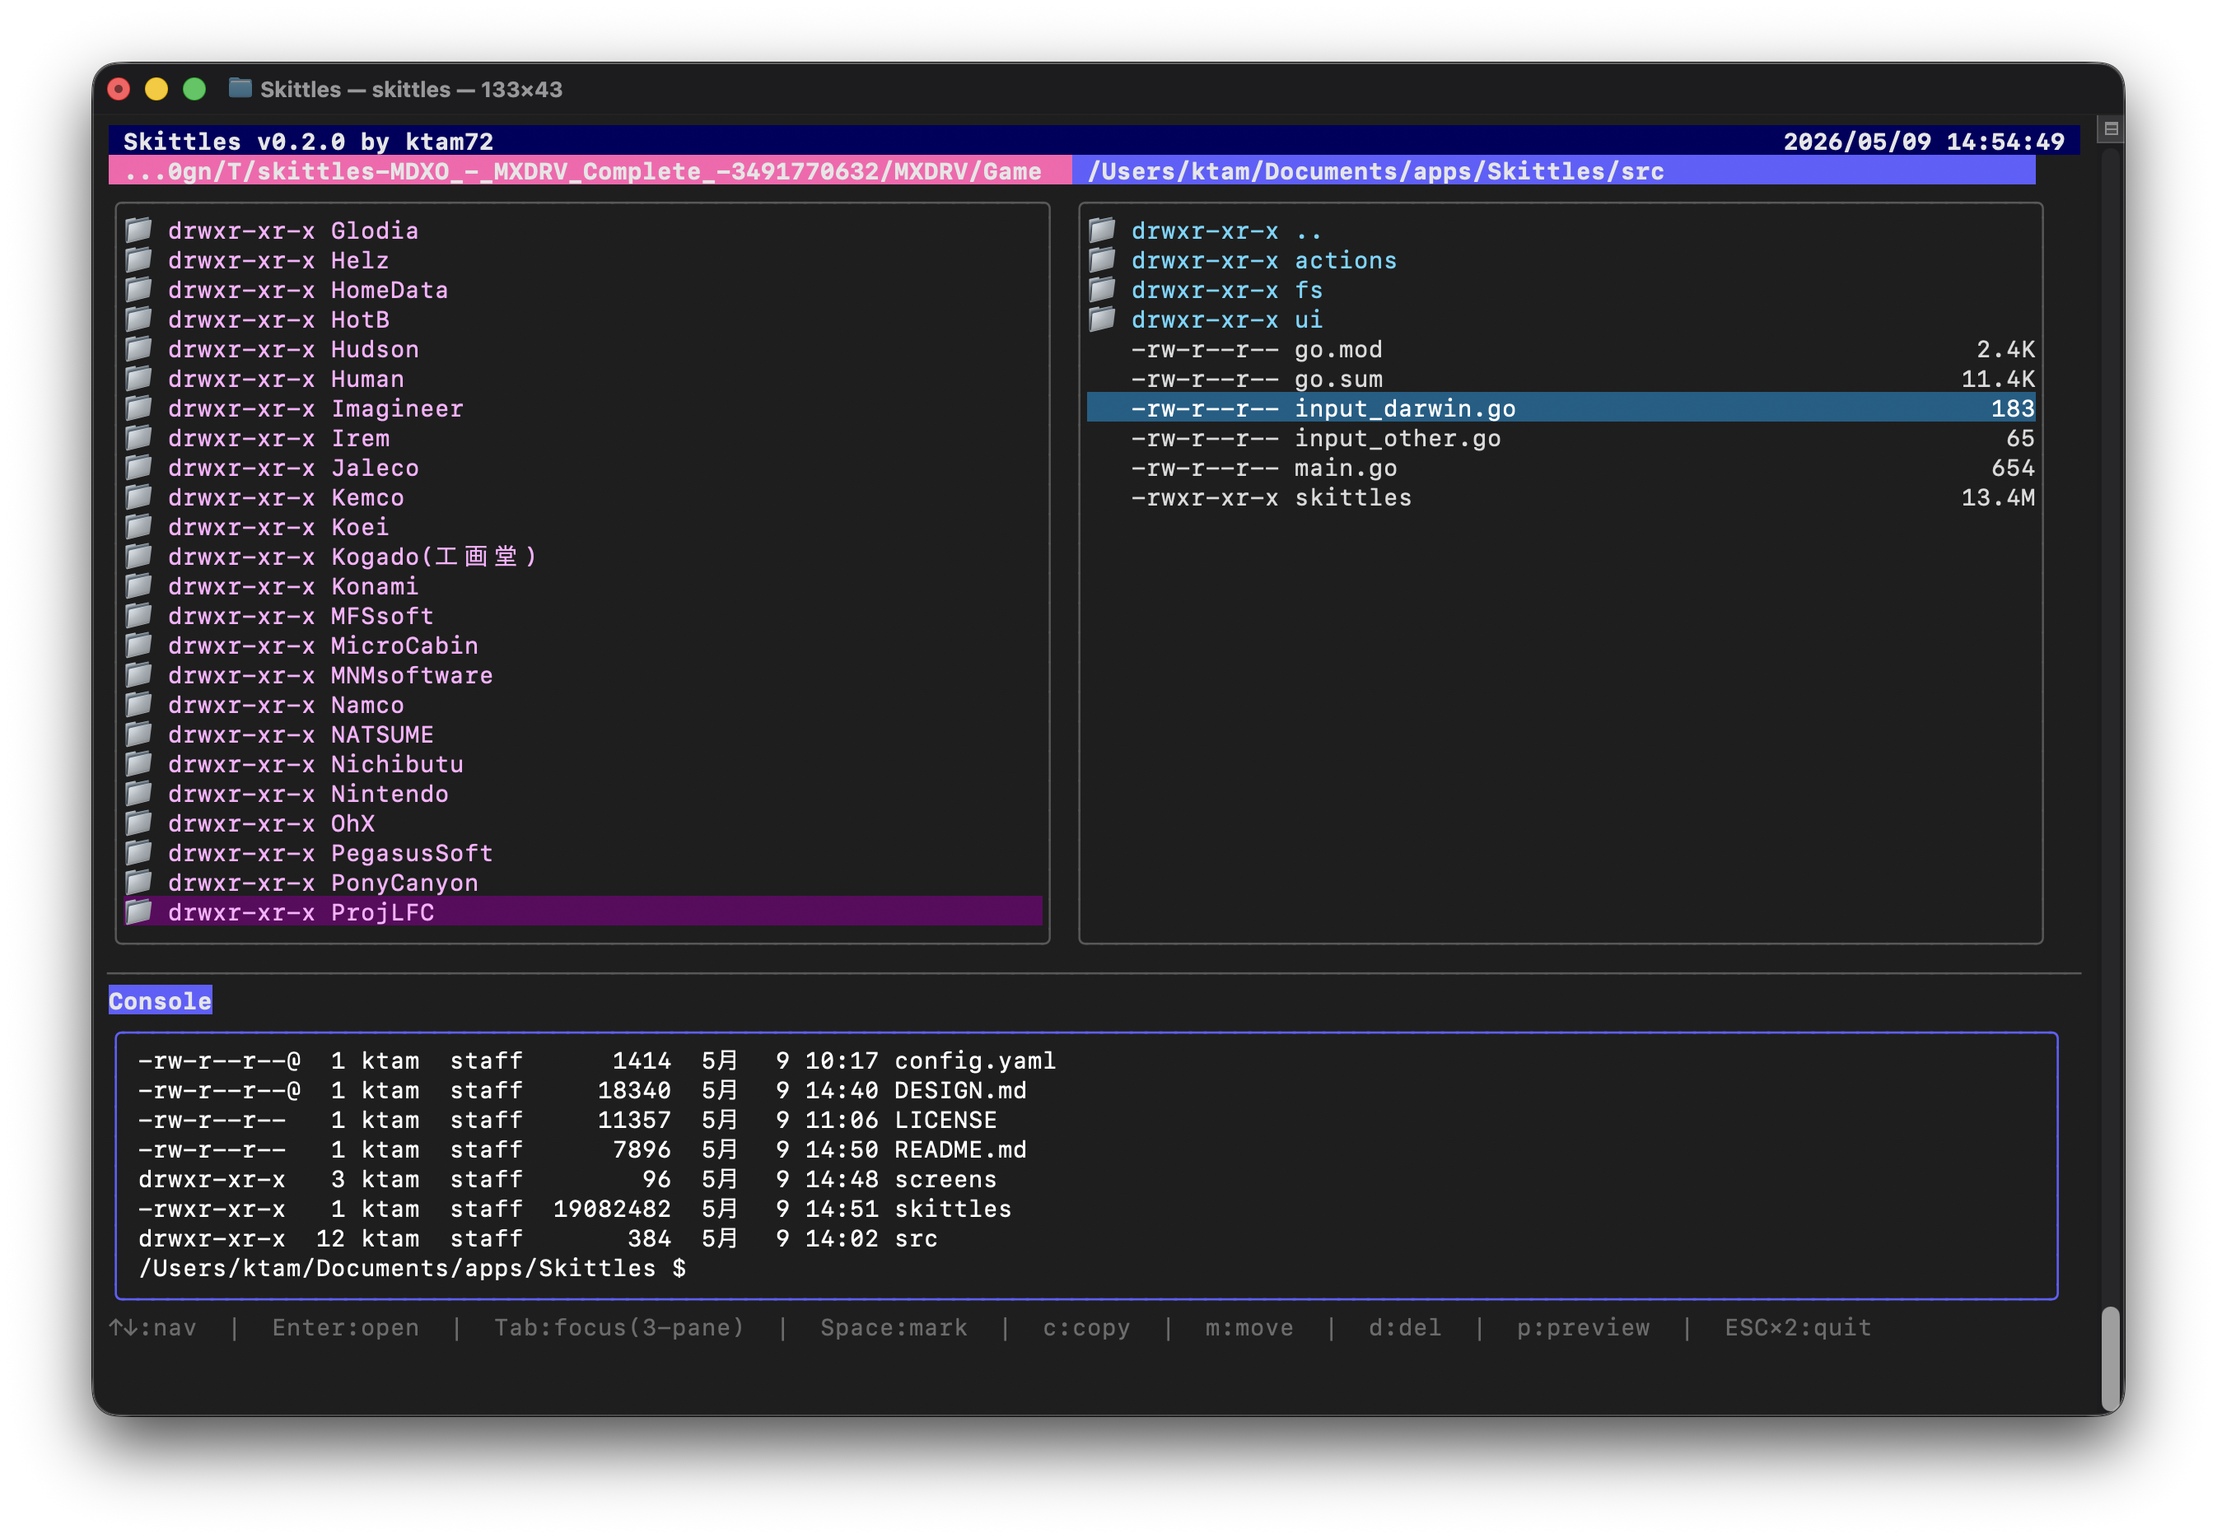
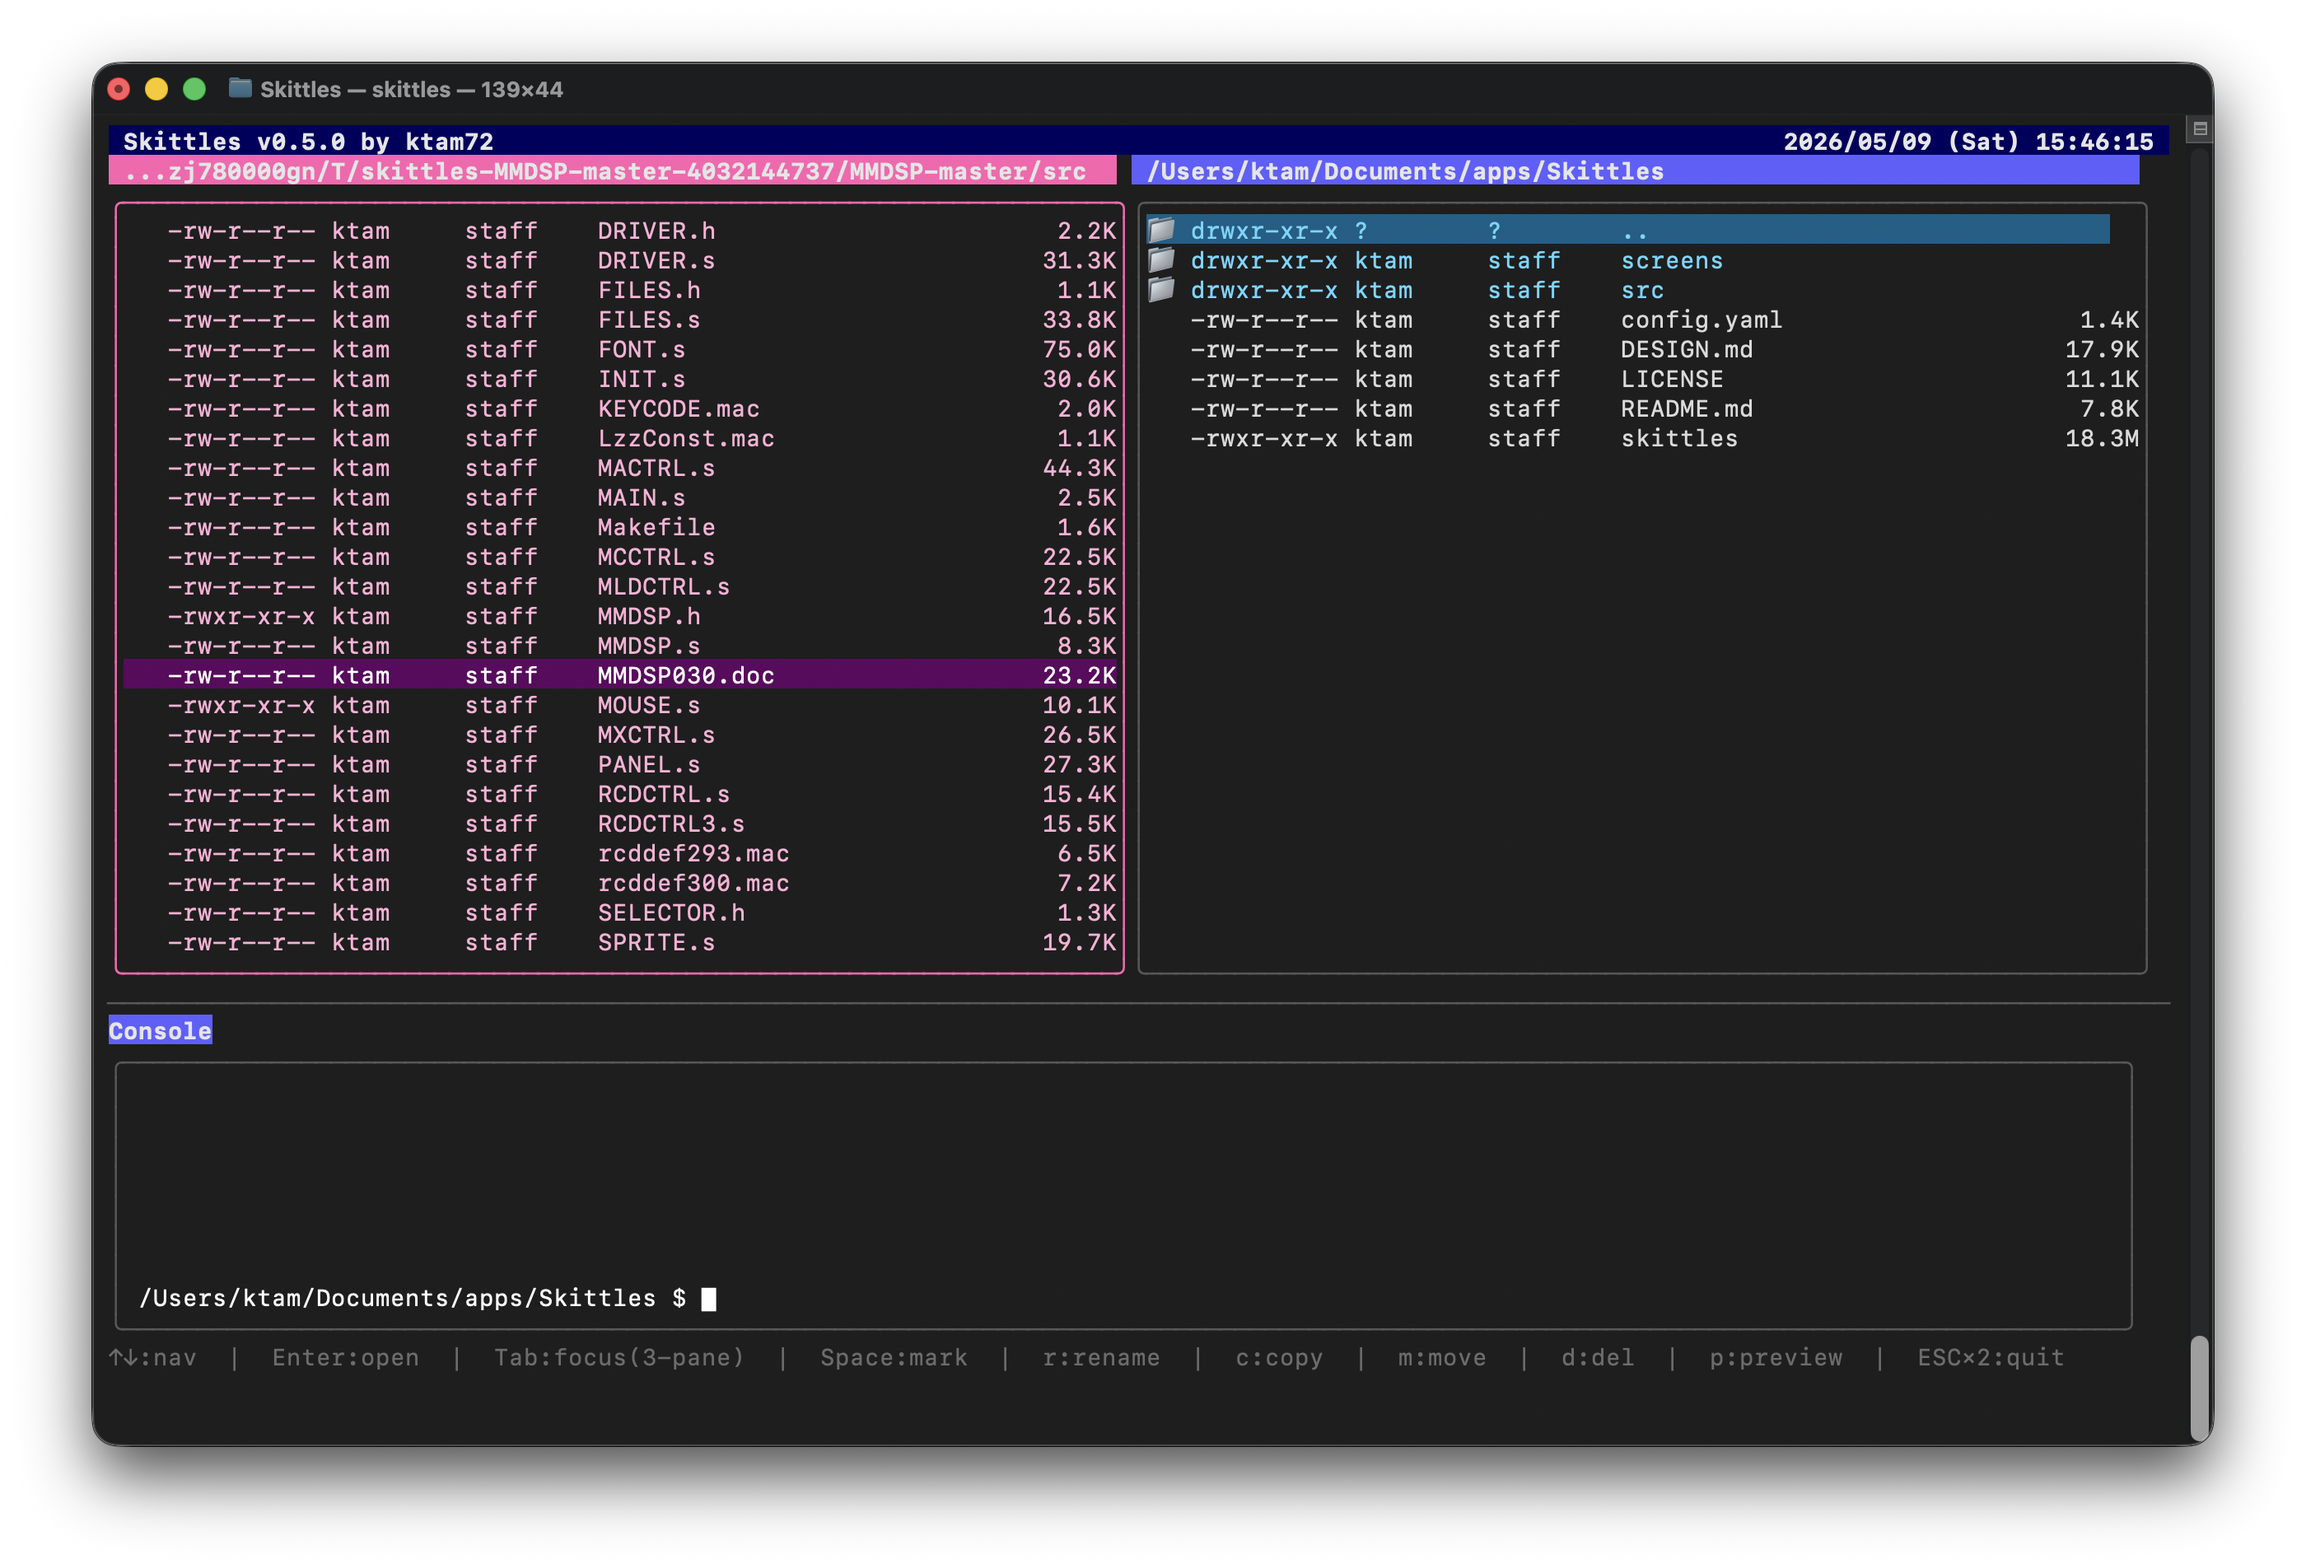
スクリーンショット差し替え、1/2/3の順で表示

Changed region(s): [[0.0312, 0.031, 0.9673, 0.8694], [0.0312, 0.8383, 0.9673, 0.9315]]

diff --git a/README.md b/README.md
@@ -3,8 +3,9 @@
 X68000 用ファイラー [mint.x](https://opencode.ai) の設計思想を継承した、
 モダンな 2画面 TUI ファイルマネージャ。
 
-![Skittles Screenshot](screens/screen3.png)
+![Skittles Screenshot](screens/screen1.png)
 ![Skittles Screenshot](screens/screen2.png)
+![Skittles Screenshot](screens/screen3.png)
 
 ```
 ┌─ Skittles v0.1.0 ─────────── 2026/05/09 12:34:56 ─┐
